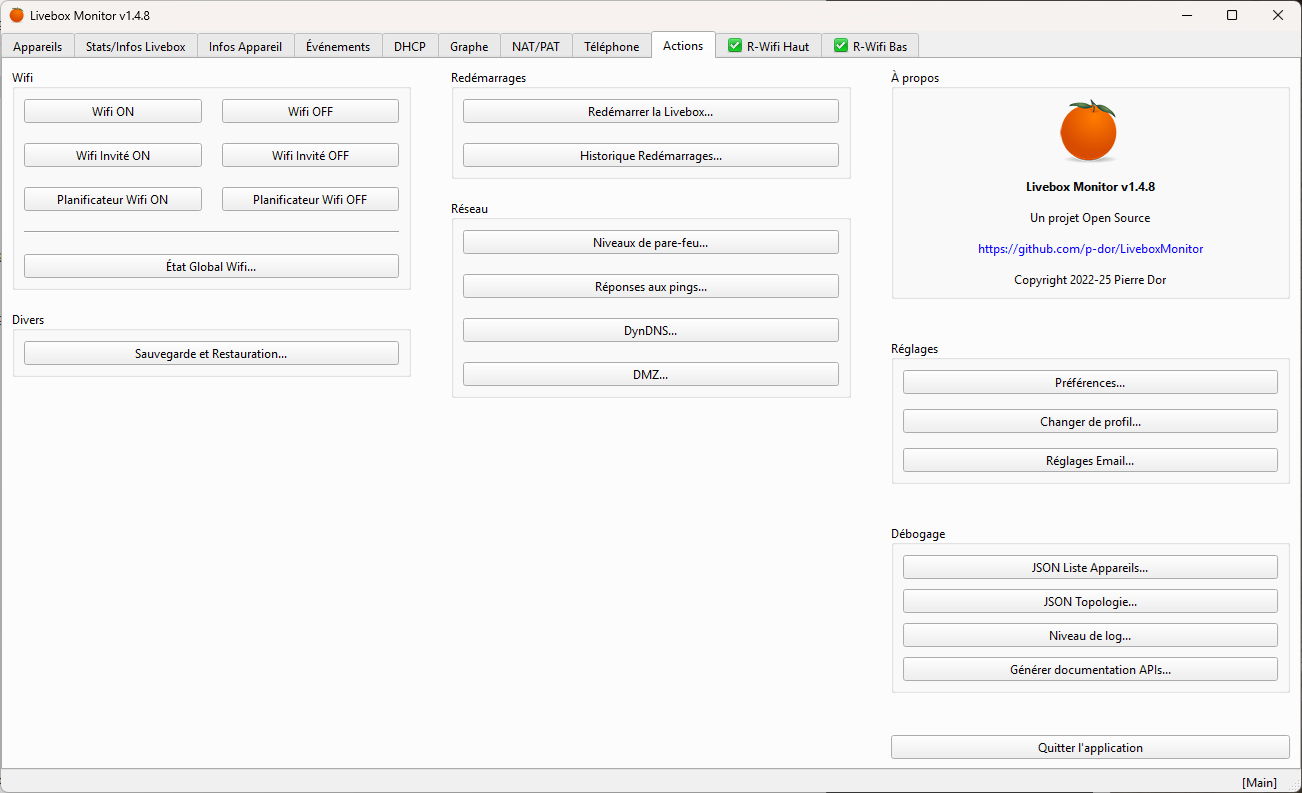
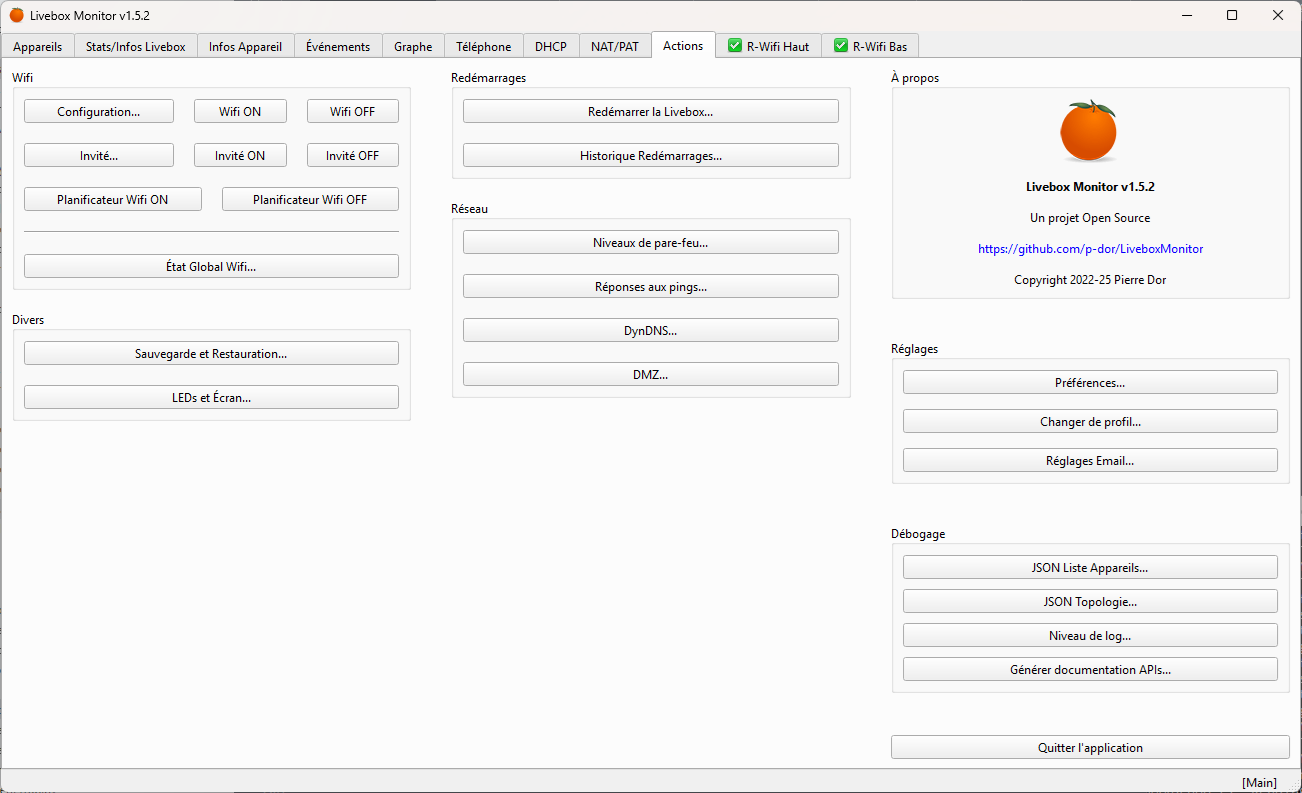
Wifi config, LED & screen setup documentation

diff --git a/README.md b/README.md
@@ -9,7 +9,7 @@ L'application [LiveboxMonitor](https://github.com/p-dor/LiveboxMonitor) est une 
 - Avoir beaucoup de détails sur les appareils qui se connectent (actifs ou non),
 - Lire le journal des événements d'un appareil donné,
 - Contrôler de manière fine les réglages du serveur DHCP, des règles NAT/PAT, du DynDNS et de la DMZ,
-- Contrôler l'état du Wifi,
+- Configurer le réseau Wifi et contrôler son état global,
 - Contrôler les appels téléphoniques ainsi que la liste des contacts,
 - Contrôler un ou plusieurs répéteurs Wifi Orange connectés.
 
@@ -133,7 +133,8 @@ Aucune documentation officielle des APIs de la Livebox n'étant disponible, l'é
 
 ## Discussion <a id="discussion"></a>
 
-Un [fil de discussion](https://lafibre.info/orange-les-news/controler-son-reseau-livebox-5-ou-6/) est actif sur le forum [lafibre.info](https://lafibre.info). Il est possible d'y poster vos commentaires, résultats de tests ou de faire des demandes de fonctionnalités.
+Si vous avez un compte GitHub le [forum de discussion](https://github.com/p-dor/LiveboxMonitor/discussions) est actif.
+Un [fil de discussion](https://lafibre.info/orange-les-news/controler-son-reseau-livebox-5-ou-6/) est aussi actif sur le forum [lafibre.info](https://lafibre.info). Il est possible d'y poster vos commentaires, résultats de tests ou de faire des demandes de fonctionnalités.
 
 
 ## Supporter le projet <a id="support"></a>
@@ -579,10 +580,12 @@ Les boutons suivants sont proposés pour gérer la liste des contacts :
 Cet onglet permet une liste d'actions par catégorie.
 
 Les actions concernant le **Wifi** :
+- **`Configuration...`** : permet de configurer toutes les bandes radios du réseau Wifi.
 - **`Wifi ON`** : permet d'activer l'interface Wifi de la Livebox.
 - **`Wifi OFF`** : permet de désactiver l'interface Wifi de la Livebox.
-- **`Wifi Invité ON`** : permet d'activer l'interface Wifi invité de la Livebox.
-- **`Wifi Invité OFF`** : permet de désactiver l'interface Wifi invité de la Livebox.
+- **`Invité...`** : permet de configurer toutes les bandes radios du réseau Wifi Invité.
+- **`Invité ON`** : permet d'activer l'interface Wifi invité de la Livebox.
+- **`Invité OFF`** : permet de désactiver l'interface Wifi invité de la Livebox.
 - **`Planificateur Wifi ON`** : permet d'activer le planificateur Wifi de la Livebox. Ce planificateur doit être configuré depuis l'interface Web de la Livebox.
 - **`Planificateur Wifi OFF`** : permet de désactiver le planificateur Wifi de la Livebox.
 - **`État Global Wifi...`** : permet d'afficher l'état global du Wifi, en incluant l'état Wifi de tous les répéteurs Wifi Orange potentiellement connectés.
@@ -593,6 +596,7 @@ Les actions **Diverses** :
 - **`Sauvegarde et Restauration...`** : permet de régler la sauvegarde automatique de la configuration de la Livebox, de déclencher une sauvegarde ou de demander une restauration de la configuration.
 
     ![Interface](http://p-dor.github.io/LiveboxMonitor/docs/png/Doc_Actions_BackupRestore.png)
+- **`LEDs et Écran...`** : permet de régler le niveau de luminosité des LEDs et l'affichage du mot de passe Wifi sur l'écran de la Livebox. Cette fonctionalité est disponible uniquement à partir de la Livebox 6.
 
 Les actions concernant les **Redémarrages** :
 - **`Redémarrer la Livebox...`** : permet de forcer un redémarrage de la Livebox.
